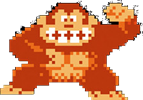
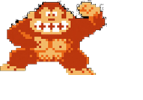
resizing floors

diff --git a/Donkey Kong/Mario.java b/Donkey Kong/Mario.java
@@ -58,7 +58,7 @@ public class Mario extends Actor
                 }
             } */
             GreenfootImage img = new GreenfootImage("mariopixelCopy.png");
-            img.scale(img.getWidth()/2, img.getHeight()/2);
+            img.scale(50,50);
             setImage(img);
             
             
@@ -71,7 +71,7 @@ public class Mario extends Actor
             {
                move(5);
                 GreenfootImage img = new GreenfootImage("mariopixel.png");
-                img.scale(img.getWidth()/2, img.getHeight()/2);
+                img.scale(50,50);
                 setImage(img);
                
                
@@ -81,7 +81,7 @@ public class Mario extends Actor
                }
             } else{
             GreenfootImage image = new GreenfootImage("mario-big.png");
-            image.scale(image.getWidth()/2, image.getHeight()/2);
+            image.scale(50,50);
             setImage(image);
                 
             }

diff --git a/Donkey Kong/BackGround1.java b/Donkey Kong/BackGround1.java
@@ -19,13 +19,13 @@ public class BackGround1 extends World
         
         setBackground(new GreenfootImage("brick.jpg"));
     
-        addObject(new DK(), 200, 150);
-        addObject(new Floor(), 125, 219);
-        addObject(new Floor(), 375, 219);
-        addObject(new Floor(), 625, 219);
-        addObject(new Floor(), 875, 219);
-        addObject(new Floor2(), 625, 500);
-        addObject(new Floor2(), 875, 500);
+        addObject(new DK(), 125, 85);
+        addObject(new Floor(), 90, 119);
+        addObject(new Floor(), 370, 119);
+        addObject(new Floor(), 259, 119);
+        addObject(new Floor(), 1239, 199);
+        addObject(new Floor2(), 1071, 199);
+        addObject(new Floor2(), 904, 199);
         addObject(new Floor2(), 1125, 500);
         addObject(new Floor2(), 1375, 500);
         addObject(new Floor(), 125, 781);
